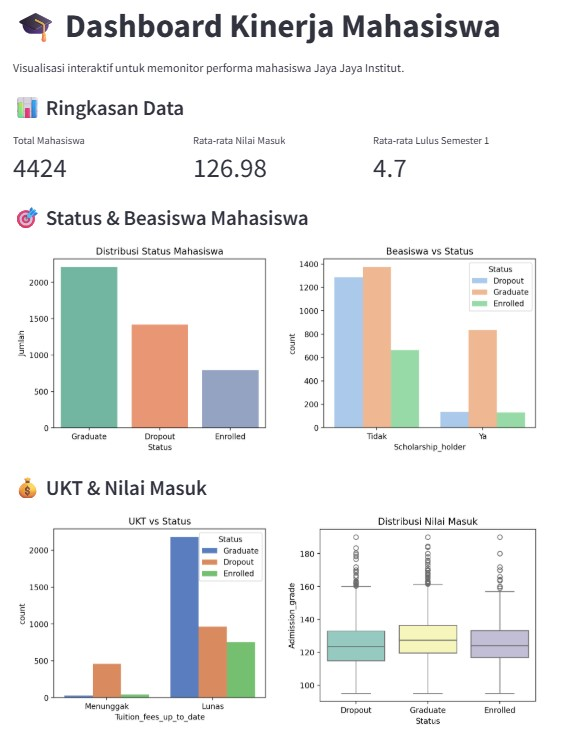
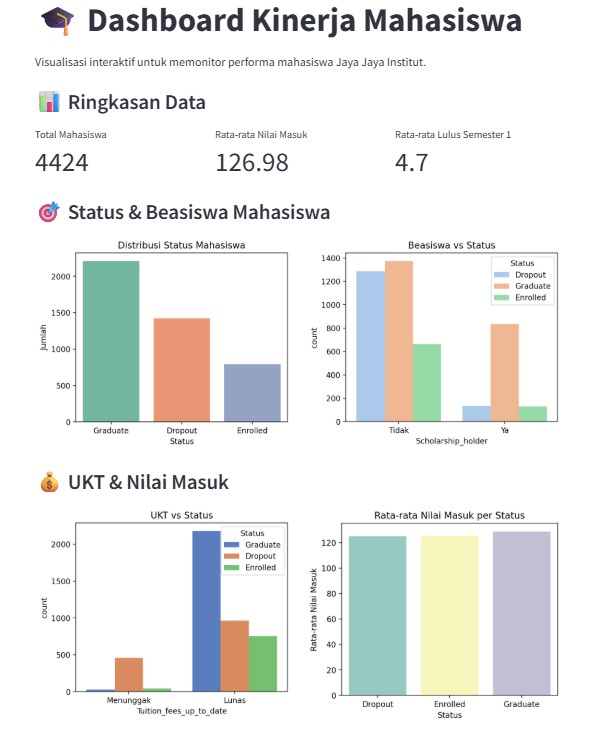
Add dashboard, prototype app, requirements and README

Changed region(s): [[0.0301, 0.0, 0.9628, 1.0], [0.331, 0.1562, 0.5115, 0.25], [0.6619, 0.1562, 0.8726, 0.25]]

diff --git a/dashboard/app.py b/dashboard/app.py
@@ -59,10 +59,13 @@ with colC:
     st.pyplot(fig3)
 
 with colD:
+    avg_admission = df_filtered.groupby("Status")["Admission_grade"].mean().reset_index()
     fig4, ax4 = plt.subplots(figsize=(5, 4))
-    sns.boxplot(data=df_filtered, x='Status', y='Admission_grade', palette='Set3', ax=ax4)
-    ax4.set_title("Distribusi Nilai Masuk")
+    sns.barplot(data=avg_admission, x='Status', y='Admission_grade', palette='Set3', ax=ax4)
+    ax4.set_ylabel("Rata-rata Nilai Masuk")
+    ax4.set_title("Rata-rata Nilai Masuk per Status")
     st.pyplot(fig4)
+
 
 # Footer
 st.markdown("---")

diff --git a/README.md b/README.md
@@ -99,41 +99,56 @@ Prediksi dapat dilakukan melalui **aplikasi Streamlit interaktif** pada file `pr
    - Enrolled
    - Graduate
 
-Model ini dapat dikembangkan lebih lanjut menjadi API atau diintegrasikan ke dalam sistem informasi akademik.
-
 ---
 
 ## Conclusion
 
-Berdasarkan hasil eksplorasi, pemodelan, dan evaluasi terhadap dataset mahasiswa Jaya Jaya Institut, diperoleh beberapa kesimpulan utama sebagai berikut:
+Berdasarkan proses eksplorasi, pemodelan, dan evaluasi terhadap dataset mahasiswa **Jaya Jaya Institut**, diperoleh beberapa kesimpulan utama sebagai berikut:
 
 1. **Model yang digunakan**  
-   Algoritma **Random Forest Classifier** dipilih karena mampu menangani klasifikasi multikelas, robust terhadap outlier, dan memberikan interpretasi melalui feature importance.
+   Algoritma **Random Forest Classifier** dipilih karena kemampuannya menangani klasifikasi multikelas, ketahanannya terhadap outlier, serta memberikan interpretabilitas melalui *feature importance*.
 
 2. **Performa model**  
-   Model menunjukkan **akurasi sebesar 76.38%** pada data uji, dengan performa terbaik dalam memprediksi mahasiswa yang **Graduate**, namun masih kurang dalam membedakan kelas **Enrolled**.
+   Model mencapai **akurasi sebesar 76.38%** pada data uji. Ia memberikan performa prediksi terbaik untuk kelas **Graduate**, cukup baik untuk **Dropout**, namun masih kurang dalam membedakan kelas **Enrolled**, kemungkinan karena distribusi data yang tidak seimbang.
 
-3. **Distribusi kelas**  
+3. **Distribusi kelas target**  
    - Graduate: 50%  
    - Dropout: 32%  
    - Enrolled: 18%  
-   ➤ Distribusi ini cukup timpang, yang mungkin memengaruhi kinerja prediksi terutama pada kelas Enrolled yang minoritas.
+   ➤ Ketidakseimbangan ini dapat menyebabkan bias prediksi terhadap kelas mayoritas (Graduate), dan kesulitan dalam klasifikasi kelas minoritas (Enrolled).
 
-4. **Fitur yang paling berpengaruh**  
-   Berdasarkan *feature importance*, tiga fitur paling menentukan status akhir mahasiswa adalah:
-   - `Curricular_units_2nd_sem_approved`
-   - `Curricular_units_2nd_sem_grade`
+4. **Fitur yang paling berpengaruh terhadap prediksi status akhir mahasiswa**:  
+   - `Curricular_units_2nd_sem_approved`  
+   - `Curricular_units_2nd_sem_grade`  
    - `Curricular_units_1st_sem_approved`  
-   ➤ Ini menekankan pentingnya performa akademik sejak awal perkuliahan sebagai indikator risiko dropout.
+   ➤ Ini menunjukkan bahwa **performa akademik pada semester awal** sangat menentukan keberhasilan studi mahasiswa. Mahasiswa dengan jumlah mata kuliah yang tidak lulus banyak dan nilai yang rendah di semester awal cenderung memiliki risiko lebih tinggi untuk dropout.
+
+5. **Karakteristik umum mahasiswa yang dropout**:  
+   - Rata-rata **nilai semester rendah**, baik dari segi jumlah mata kuliah yang tidak lulus maupun nilai keseluruhan.  
+   - Banyak dari mereka juga **tidak memperoleh beasiswa** dan **memiliki keterlambatan pembayaran UKT**.  
+   - **Marital status** dan usia juga berpengaruh, di mana mahasiswa yang sudah menikah atau berusia lebih tua cenderung lebih berisiko mengalami dropout karena mungkin menghadapi beban tanggung jawab keluarga atau pekerjaan.
 
 ---
 
-### Rekomendasi Action Items
+### Rekomendasi Actionable Items
 
-Berikut adalah beberapa rekomendasi strategis bagi Jaya Jaya Institut:
+Berdasarkan temuan tersebut, berikut adalah rekomendasi yang lebih teknis dan actionable untuk pihak akademik Jaya Jaya Institut:
 
-- **Bangun sistem peringatan dini (early warning system)** berdasarkan model ini, untuk mengidentifikasi mahasiswa yang berisiko dropout sejak semester awal.
-- **Lakukan balancing data atau oversampling** pada kelas minoritas (Enrolled) untuk meningkatkan akurasi model secara menyeluruh.
-- **Evaluasi dan uji model alternatif** seperti XGBoost atau Gradient Boosting untuk membandingkan performa prediksi.
-- **Kembangkan dashboard interaktif** berbasis Streamlit atau BI tools agar dosen wali dan manajemen dapat menggunakan model ini secara real time.
-- **Berikan dukungan akademik atau mentoring** secara khusus kepada mahasiswa dengan risiko tinggi menurut model prediksi.
+1. **Sistem Early Warning**  
+   - Terapkan *early warning system* berbasis model prediksi ini untuk mendeteksi mahasiswa dengan performa rendah sejak semester pertama dan kedua.  
+   - Sistem ini bisa diintegrasikan dalam sistem informasi akademik kampus.
+
+2. **Dukungan Akademik Spesifik**  
+   - Mahasiswa dengan jumlah mata kuliah yang tidak lulus banyak di semester awal dapat diberikan *remedial class* atau *mentoring akademik*.  
+   - Libatkan dosen wali untuk mengawasi perkembangan nilai mereka.
+
+3. **Pendekatan Finansial dan Sosial**  
+   - Bagi mahasiswa yang terlambat membayar UKT atau tidak mendapat beasiswa, perlu dibuat skema keringanan pembayaran, cicilan UKT, atau informasi lebih terbuka mengenai beasiswa.  
+   - Mahasiswa menikah dapat difasilitasi fleksibilitas jam belajar atau pendampingan psikologis agar tetap dapat mengikuti perkuliahan dengan baik.
+
+4. **Model Iteratif dan Berbasis Data Terbaru**  
+   - Update model secara berkala menggunakan data akademik terbaru agar sistem tetap relevan dan akurat.  
+   - Lakukan eksplorasi dengan model alternatif seperti XGBoost untuk kemungkinan peningkatan performa prediksi.
+
+5. **Visualisasi Interaktif**  
+   - Dashboard berbasis **Streamlit** telah dikembangkan dan dapat digunakan dosen untuk memantau status mahasiswa. Ke depan bisa dikembangkan lebih lanjut menjadi sistem prediktif berbasis web kampus.
